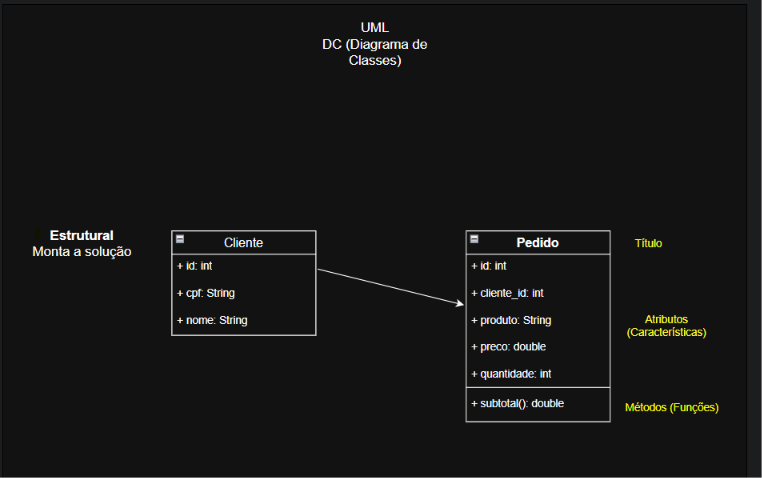
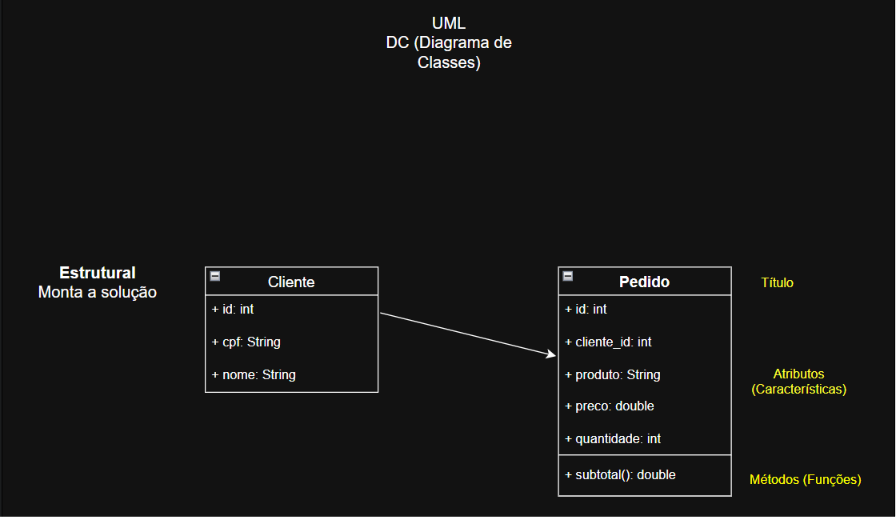
up

diff --git a/src/controllers/pedido.js b/src/controllers/pedido.js
@@ -24,35 +24,43 @@ const listar = (req, res) => {
 
 }
 
-const alterar = (req, res) => {
+const alterar = (req, res)=>{
+    const id = req.params.id;
+    const dados = req.body;
+    let status = 0;
 
-    const id = Number(req.params.id)
+    pedidos.forEach((pedido) => {
+        if(pedido.id == id) {
+            status = 1;
+            pedido.id = dados.id;
+            pedido.cliente_id = dados.cliente_id;
+            pedido.produto = dados.produto;
+            pedido.preco = dados.preco;
+            pedido.quantidade = dados.quantidade;
+        }
+    });
 
-    const indice = pedidos.findIndex(pedido => pedido.id === id)
+    if(status == 1){
+        res.send("Pedido alterado com sucesso !");
+    }else {
+        res.status(404).send("Pedido não encontrado");
+    }}
+const excluir = (req, res)=>{
+    const id = req.params.id;
+let status = 0;
 
-    if (indice === -1) {
-        return res.status(404).json({ mensagem: "Pedido não encontrado" })
+pedidos.forEach((pedido, indice) => {
+    if(pedido.id == id){
+        status = 1;
+    pedidos.splice(indice, 1);
     }
+});
 
-    pedidos[indice] = {
-        ...pedidos[indice],
-        ...req.body,
-        id: id
-    }
-
-    res.json(pedidos[indice])
+if(status == 1){
+    res.send("Pedido excluido com sucesso");
+}else{
+    res.status(404).send("Pedido não encontrado");
 }
-
-const excluir = (req, res) => {
-    const id = Number(req.params.id)
-    const indice = pedidos.findIndex(pedido => pedido.id === id)
-
-    if (indice === -1) {
-        return res.status(404).json({ mensagem: "Pedido não encontrado" })
-    }
-
-    pedidos.splice(indice, 1)
-    res.status(204).send()
 }
 
 module.exports = {

diff --git a/src/controllers/cliente.js b/src/controllers/cliente.js
@@ -13,35 +13,43 @@ const listar = (req, res) => {
     res.json(clientes)
 }
 
-const alterar = (req, res) => {
-    const id = Number(req.params.id)
+const alterar = (req, res)=>{
+    const id = req.params.id;
+    const dados = req.body;
+    let status = 0;
 
-    const indice = clientes.findIndex(cliente => cliente.id === id)
+    clientes.forEach((cliente) => {
+        if(cliente.id == id) {
+            status = 1;
+            cliente.id = dados.id;
+            cliente.cpf = dados.cpf;
+            cliente.nome = dados.nome;
+        }
+    });
 
-    if (indice === -1) {
-        return res.status(404).json({ mensagem: "Cliente não encontrado" })
+    if(status == 1){
+        res.send("Cliente alterado com sucesso !");
+    }else {
+        res.status(404).send("Cliente não encontrado");
     }
-
-    clientes[indice] = {
-        ...clientes[indice],
-        ...req.body,
-        id: id
-    }
-
-    res.json(clientes[indice])
 }
 
-const excluir = (req, res) => {
+const excluir = (req, res)=>{
+    const id = req.params.id;
+    let status = 0;
 
-    const id = Number(req.params.id)
-    const indice = clientes.findIndex(cliente => cliente.id === id)
+    clientes.forEach((cliente, indice) => {
+        if(cliente.id == id){
+            status = 1;
+            clientes.splice(indice, 1);
+        }
+    });
 
-    if (indice === -1) {
-        return res.status(404).json({ mensagem: "Cliente não encontrado" })
+    if(status == 1){
+        res.send("Cliente excluido com sucesso");
+    }else{
+        res.status(404).send("Cliente não encontrado");
     }
-
-    clientes.splice(indice, 1)
-    res.status(204).send()
 }
 
 module.exports = {

diff --git a/README.md b/README.md
@@ -22,13 +22,13 @@ npm run dev
 ## Exemplos de rotas : Alterar e Excluir 
 
 ALTERAR CLIENTE <br>
-![Alterar](./docx/alterarcliente.png)
+![Alterar](./docx/alterar_cliente.png)
 
 EXCLUIR CLIENTE <br>
-![Excluir](./docx/excluircliente.png)
+![Excluir](./docx/excluir_cliente.png)
 
 ALTERAR PEDIDO <br>
-![Alterar](./docx/alterarpedido.png)
+![Alterar](./docx/alterar_pedido.png)
 
 EXCLUIR PEDIDO <br>
-![Excluir](./docx/excluirpedido.png)
+![Excluir](./docx/excluir_pedido.png)
